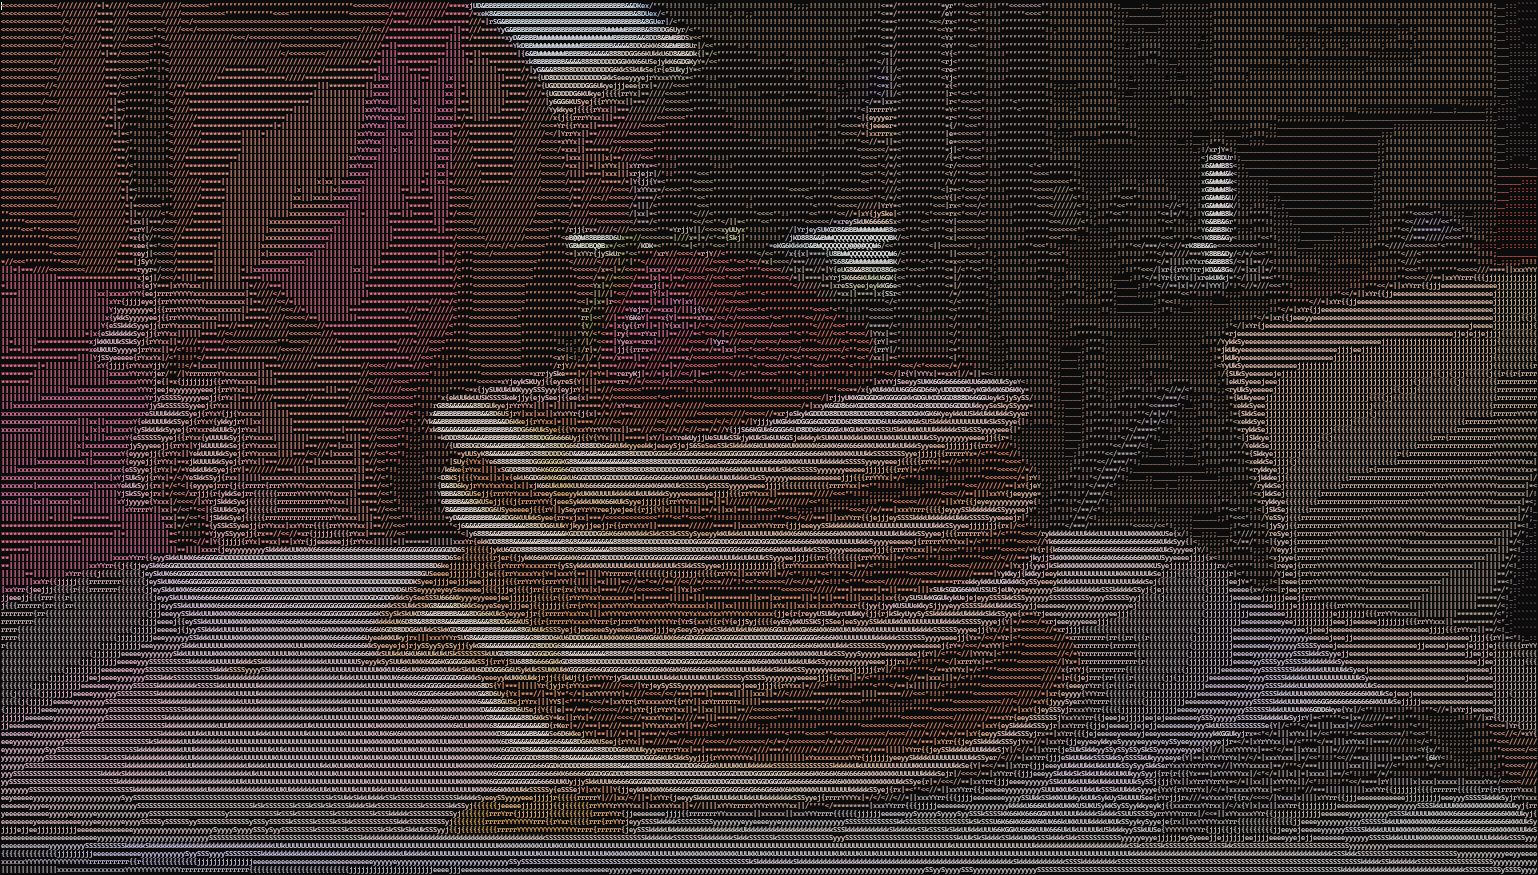
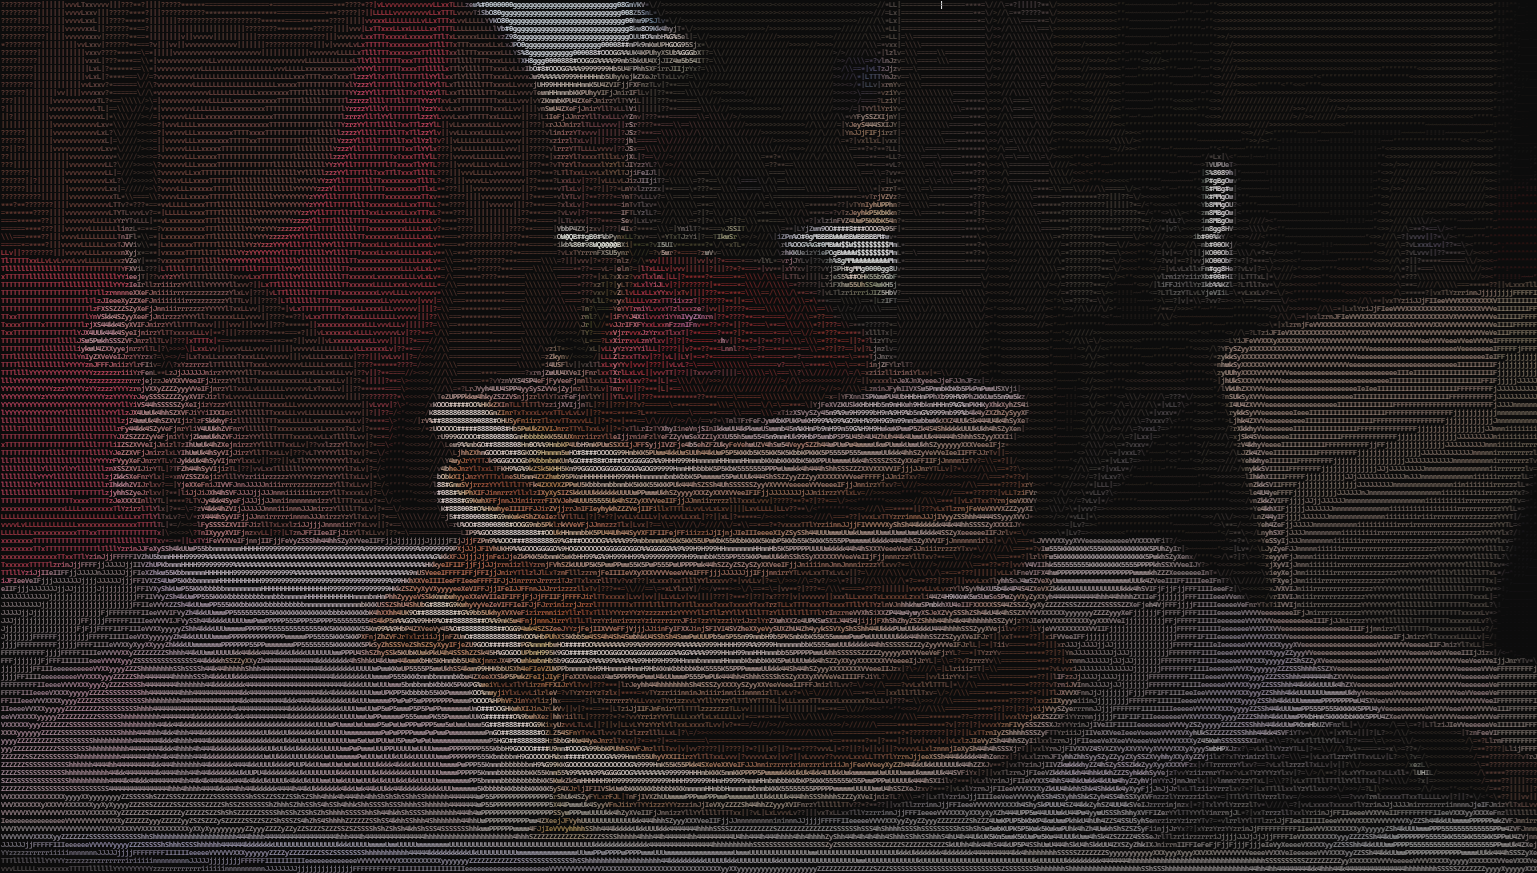
Removed color correction, changed character set.

diff --git a/main.c b/main.c
@@ -15,13 +15,81 @@ typedef struct ScalingContext {
     AVFrame*           scaled_frame;
 } ScalingContext;
 
-
 // 24 bytes per pixel + 1 byte per row for newline + 3 bytes for \u001B[H + \0.
 constexpr int RESOLUTION_W = 384;
 constexpr int RESOLUTION_H = 108;
 char frame_buffer[(RESOLUTION_W + 1) * RESOLUTION_H * 24 + 4];
 
-constexpr char lookup[] = " .`:_;!\"</*|xYr{jeySkUK6GD8&BWQ@";
+constexpr char characters[] =
+    " .`':_;^!~\"<>/\\=*?|vLxTlYzrinJjFIeVXyZSh4kUwP5KbmH9%GO#80gMBW$Q@";
+
+[[maybe_unused]]
+static float const densities[128] = {
+    ['\''] = 0.0516,
+    [' '] = 0.0000,
+    ['!'] = 0.0964,
+    ['"'] = 0.1032,
+    ['#'] = 0.2742,
+    ['$'] = 0.3076,
+    ['%'] = 0.2581,
+    ['*'] = 0.1507,
+    ['.'] = 0.0277,
+    ['/'] = 0.1445,
+    ['0'] = 0.2831,
+    ['4'] = 0.2310,
+    ['5'] = 0.2445,
+    ['8'] = 0.2808,
+    ['9'] = 0.2569,
+    [':'] = 0.0553,
+    [';'] = 0.0831,
+    ['<'] = 0.1360,
+    ['='] = 0.1460,
+    ['>'] = 0.1388,
+    ['?'] = 0.1539,
+    ['@'] = 0.3310,
+    ['B'] = 0.2989,
+    ['F'] = 0.2016,
+    ['G'] = 0.2631,
+    ['H'] = 0.2548,
+    ['I'] = 0.2035,
+    ['J'] = 0.1935,
+    ['K'] = 0.2499,
+    ['L'] = 0.1627,
+    ['M'] = 0.2923,
+    ['O'] = 0.2678,
+    ['P'] = 0.2425,
+    ['Q'] = 0.3154,
+    ['S'] = 0.2264,
+    ['T'] = 0.1693,
+    ['U'] = 0.2401,
+    ['V'] = 0.2144,
+    ['W'] = 0.3050,
+    ['X'] = 0.2173,
+    ['Y'] = 0.1761,
+    ['Z'] = 0.2212,
+    ['\\'] = 0.1445,
+    ['^'] = 0.0866,
+    ['_'] = 0.0723,
+    ['`'] = 0.0476,
+    ['b'] = 0.2520,
+    ['e'] = 0.2121,
+    ['g'] = 0.2898,
+    ['h'] = 0.2278,
+    ['i'] = 0.1879,
+    ['j'] = 0.1995,
+    ['k'] = 0.2339,
+    ['l'] = 0.1707,
+    ['m'] = 0.2535,
+    ['n'] = 0.1921,
+    ['r'] = 0.1824,
+    ['v'] = 0.1609,
+    ['w'] = 0.2407,
+    ['x'] = 0.1674,
+    ['y'] = 0.2189,
+    ['z'] = 0.1811,
+    ['|'] = 0.1588,
+    ['~'] = 0.1015,
+};
 
 void callback(
     AVFrame* const source_frame,
@@ -43,23 +111,23 @@ void callback(
     {
         for (int col = 0; col < scaled_frame->width; col += 1)
         {
-            int const r = scaled_frame
+            auto const r = scaled_frame
                 ->data[0][row * scaled_frame->linesize[0] + 3 * col + 0];
-            int const g = scaled_frame
+            auto const g = scaled_frame
                 ->data[0][row * scaled_frame->linesize[0] + 3 * col + 1];
-            int const b = scaled_frame
+            auto const b = scaled_frame
                 ->data[0][row * scaled_frame->linesize[0] + 3 * col + 2];
 
             // https://en.wikipedia.org/wiki/Rec._709
-            float const luma = lround(0.2126*r + 0.7152*g + 0.0722*b) / 255.0f;
-
-            auto const character_index = lround((sizeof lookup - 1) * luma);
+            auto const luma = lround(0.2126*r + 0.7152*g + 0.0722*b) / 255.0f;
+            auto const symb = characters[lround((sizeof characters - 1) * luma)];
 
             pointer += sprintf(pointer, "\u001B[38;2;%d;%d;%dm%c\u001B[0m",
-                r, g, b, lookup[character_index]);
+                r, g, b, symb);
         }
         *pointer++ = '\n';
     }
+    
     pointer += sprintf(pointer, "\u001b[H");
     
     fwrite(frame_buffer, 1, pointer - frame_buffer, stdout);
